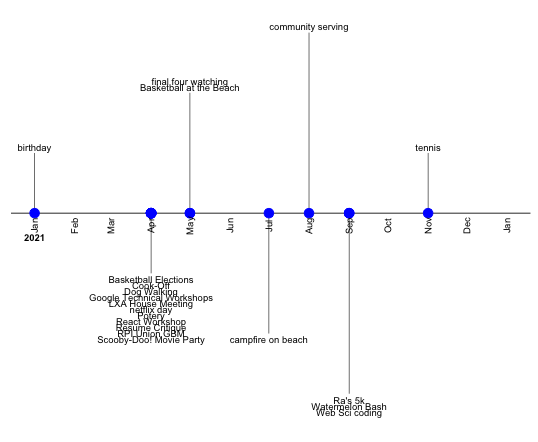
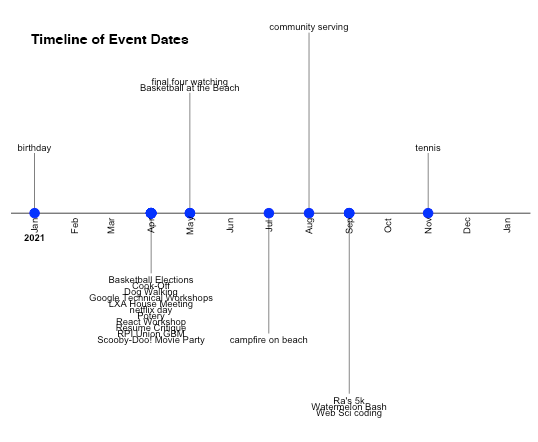
updated data viz -rachel
- updated r files, pngs, and styling

diff --git a/campfire/src/app/data-viz/data-viz.component.html b/campfire/src/app/data-viz/data-viz.component.html
@@ -23,7 +23,7 @@ Number of drivers/cars - Michael-->
                                 <h2>Club Categories</h2>
                             </div>
                             <div class="card-body">
-                                <img class="zoom" src="../assets/data-viz/clubCategories.png"
+                                <img class="zoom-large" src="../assets/data-viz/clubCategories.png"
                                     alt="image of club categories data viz, a pie chart">
                                 <form method="post" action="/clubCategories">
                                     <input type="submit" class="btn bg-orange" value="Club Categories" aria-label="button for club categories" aria-details="det"><br>
@@ -37,7 +37,7 @@ Number of drivers/cars - Michael-->
                                 <h2>Event Dates</h2>
                             </div>
                             <div class="card-body">
-                                <img class="zoom" src="../assets/data-viz/eventDates.png"
+                                <img class="zoom-large" src="../assets/data-viz/eventDates.png"
                                     alt="image of event dates data viz, a timeline">
                                 <form method="post" action="/eventDates">
                                     <input type="submit" class="btn bg-orange" value="Event Dates" aria-label="button for event dates" aria-details="det"><br>

diff --git a/campfire/src/app/data-viz/data-viz.component.css b/campfire/src/app/data-viz/data-viz.component.css
@@ -28,6 +28,19 @@
   .zoom:hover {
     transform: scale(1.25);
   }
+  .zoom-large {
+    transition: transform .2s; /* Animation */
+    height: 375px;
+    /*width: 300px;*/
+    margin: 0 auto;
+    margin-top: 25px;
+    margin-bottom: 25px;
+    /* margin-right: 15px;
+    margin-left: 15px; */
+  }
+  .zoom-large:hover {
+    transform: scale(1.25);
+  }
 h3{
       color: black;
 }
